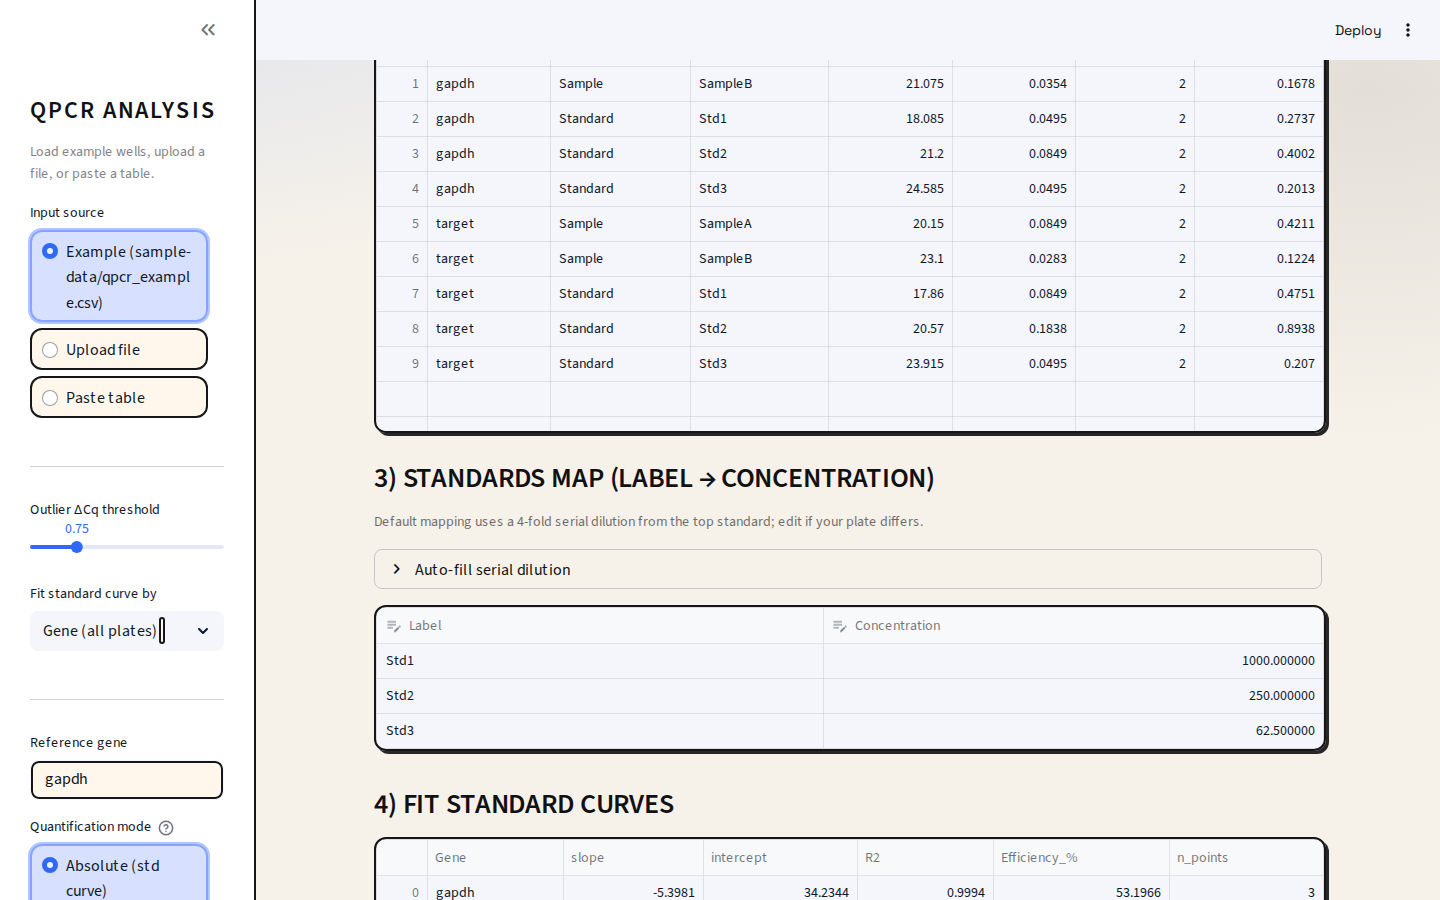
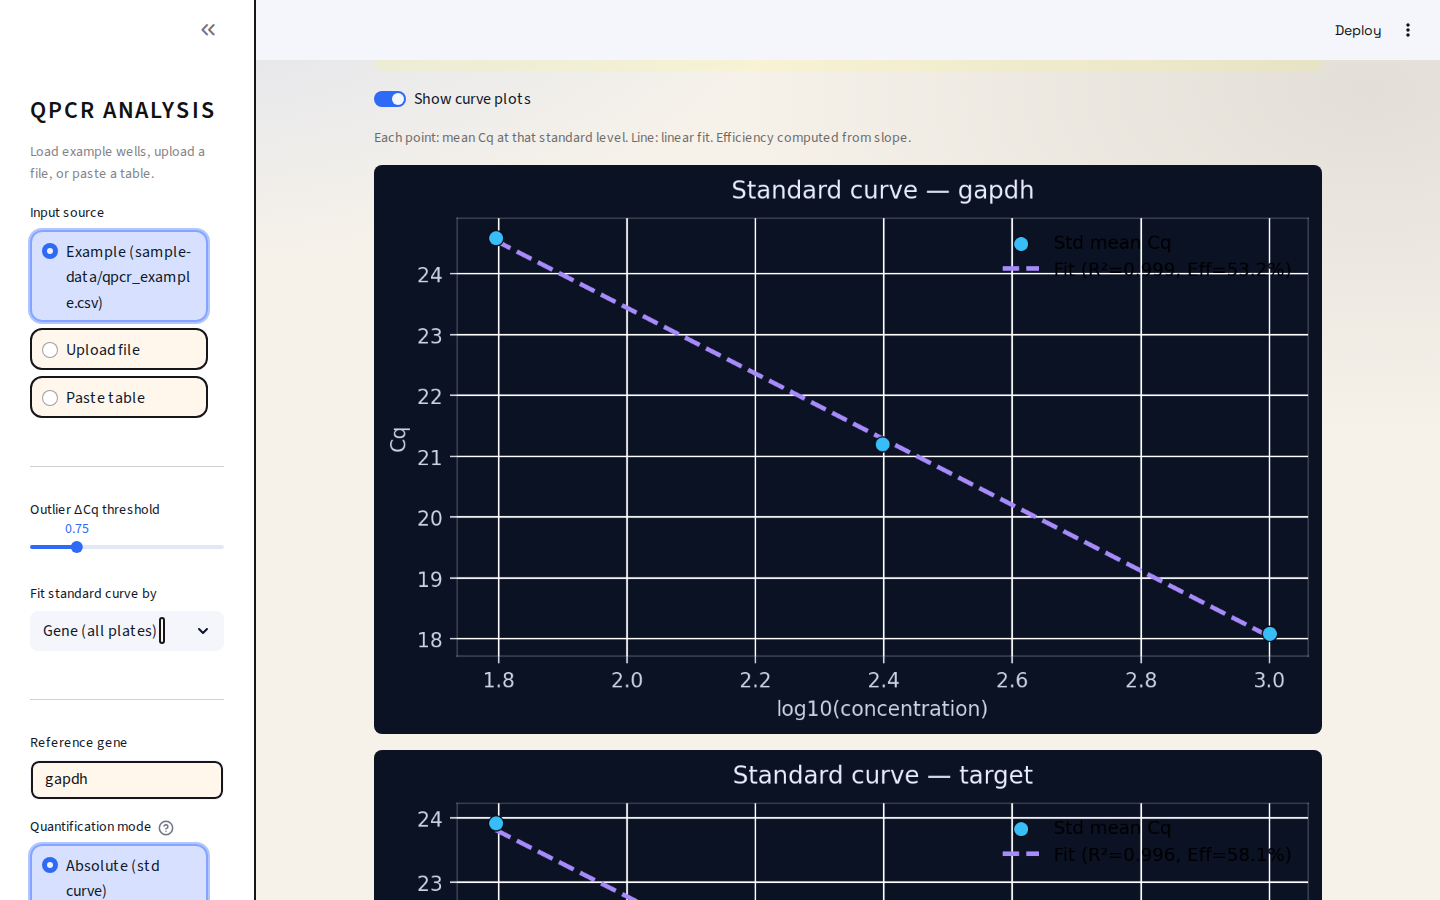
Capture standard curve plots in screenshots

diff --git a/tests/e2e.spec.ts b/tests/e2e.spec.ts
@@ -1,11 +1,28 @@
 import { test, expect } from '@playwright/test'
 
-async function snapSection(page, headingRegex: RegExp, filename: string) {
+async function snapSection(page, headingRegex: RegExp, filename: string, scrollOffset = 0) {
   const heading = page.getByRole('heading', { name: headingRegex })
   await expect(heading).toBeVisible()
   await heading.scrollIntoViewIfNeeded()
+  if (scrollOffset) {
+    await page.evaluate((offset) => window.scrollBy(0, offset), scrollOffset)
+  }
   await page.waitForTimeout(600)
   await expect(page).toHaveScreenshot(filename)
+}
+
+async function scrollToLargeImage(page) {
+  const images = page.locator('img')
+  const count = await images.count()
+  for (let i = 0; i < count; i += 1) {
+    const img = images.nth(i)
+    const box = await img.boundingBox()
+    if (box && box.width > 320 && box.height > 200) {
+      await img.scrollIntoViewIfNeeded()
+      return true
+    }
+  }
+  return false
 }
 
 test('example workflow screenshots', async ({ page }) => {
@@ -22,7 +39,21 @@ test('example workflow screenshots', async ({ page }) => {
   await snapSection(page, /1\)\s*Review & clean wells/i, 'overview.png')
   await snapSection(page, /2\)\s*Replicate averages/i, 'replicates.png')
   await snapSection(page, /3\)\s*Standards map/i, 'standards.png')
-  await snapSection(page, /4\)\s*Fit standard curves/i, 'curves.png')
+  const showToggle = page.getByLabel('Show curve plots')
+  if (await showToggle.isVisible()) {
+    if (!(await showToggle.isChecked())) {
+      await showToggle.check()
+      await page.waitForTimeout(400)
+    }
+  }
+  await page.waitForTimeout(800)
+  const foundPlot = await scrollToLargeImage(page)
+  if (!foundPlot) {
+    await snapSection(page, /4\)\s*Fit standard curves/i, 'curves.png', 720)
+  } else {
+    await page.waitForTimeout(400)
+    await expect(page).toHaveScreenshot('curves.png')
+  }
   await snapSection(page, /6\)\s*Normalize to reference gene/i, 'quant_normalize.png')
   await snapSection(page, /7\)\s*Export/i, 'export.png')
 })
